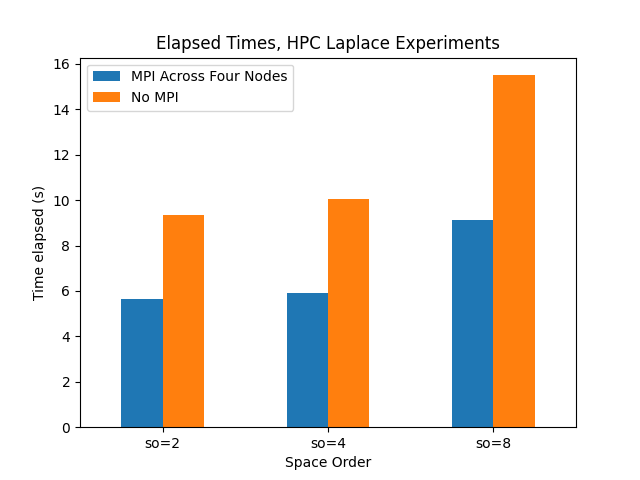
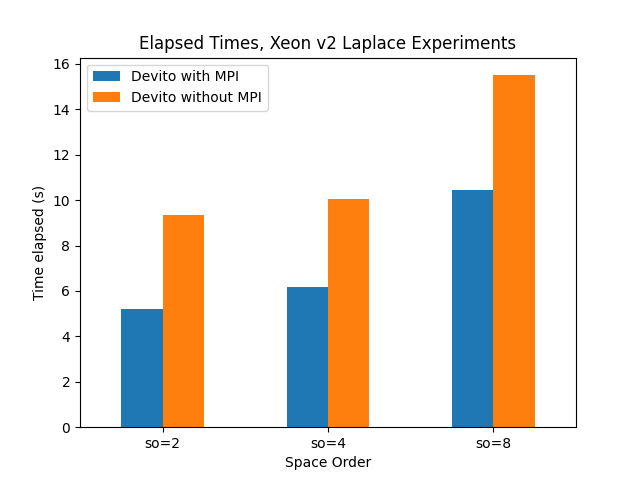
Implement wavefront tiling without MPI for wave stencil

diff --git a/results/postprocessing.py b/results/postprocessing.py
@@ -1,0 +1,105 @@
+from matplotlib import cm
+from matplotlib.colors import Normalize
+import matplotlib.pyplot as plt
+import matplotlib.patches as mpatches
+import pandas as pd
+import numpy as np
+import seaborn as sns
+
+results_folder = "data/"
+graphs_folder = "graphs/"
+
+space_orders = [2,4,8]
+time_tile_sizes = [4,8,16,32]
+
+def CPU_name(architecture):
+    if architecture == "yam":
+        return "Xeon v3"
+    if architecture == "hpc":
+        return "Xeon v2"
+    raise Exception("Typo in: " + str(architecture))
+
+def stencil_name(stencil):
+    if stencil == "laplace":
+        return "Laplace"
+    if stencil == "wave":
+        return "Wave"
+    raise Exception("Typo in: " + str(stencil))       
+
+def get_architecture_mpi_results(architecture, stencil):
+    architecture_folder = results_folder + architecture
+    #overlapped_csv = pd.read_csv(architecture_folder + "/results_overlapped_laplace_mpi.csv")
+    standard_csv = pd.read_csv(architecture_folder + "/" + str(stencil) + "_standard_mpi.csv")
+
+    # Average across repeats
+    #overlapped_csv = overlapped_csv.groupby(['num_ranks', 'space_order', 'time_tile_size','wf_x_width','wf_y_width', 'time', 'x_size', 'y_size', 'z_size']).mean().reset_index().drop(columns=['repeat_num'])
+    standard_csv = standard_csv.groupby(['num_ranks', 'space_order', 'time', 'x_size', 'y_size', 'z_size']).mean().reset_index().drop(columns=['repeat_num'])
+
+    #overlapped_csv['experiment_name'] = overlapped_csv.apply(lambda x: "t=" + str(int(x['time'])) + ",d=(" + str(int(x['x_size'])) + "," + str(int(x['y_size'])) + "," + str(int(x['z_size'])) + ")", axis=1)
+    standard_csv['experiment_name'] = standard_csv.apply(lambda x: "t=" + str(int(x['time'])) + ",d=(" + str(int(x['x_size'])) + "," + str(int(x['y_size'])) + "," + str(int(x['z_size'])) + ")", axis=1)
+
+    #overlapped_csv['computation_time'] = overlapped_csv['elapsed_time'] - overlapped_csv['haloupdate0']
+    standard_csv['computation_time'] = standard_csv['elapsed_time'] - standard_csv['haloupdate0']
+    #return overlapped_csv, standard_csv
+    return standard_csv
+
+def get_architecture_openmp_results(architecture, stencil):
+    architecture_folder = results_folder + architecture
+    wavefront_csv = pd.read_csv(architecture_folder + "/" + str(stencil) + "_wavefront_openmp.csv")
+    standard_csv = pd.read_csv(architecture_folder + "/" + str(stencil) + "_standard_openmp.csv")
+
+    # Average across repeats
+    wavefront_csv = wavefront_csv.groupby(['space_order', 'time_tile_size','wf_x_width','wf_y_width', 'time', 'x_size', 'y_size', 'z_size']).mean().reset_index().drop(columns=['repeat_num'])
+    standard_csv = standard_csv.groupby(['space_order', 'time', 'x_size', 'y_size', 'z_size']).mean().reset_index().drop(columns=['repeat_num'])
+
+    wavefront_csv['experiment_name'] = wavefront_csv.apply(lambda x: "t=" + str(int(x['time'])) + ",d=(" + str(int(x['x_size'])) + "," + str(int(x['y_size'])) + "," + str(int(x['z_size'])) + ")", axis=1)
+    standard_csv['experiment_name'] = standard_csv.apply(lambda x: "t=" + str(int(x['time'])) + ",d=(" + str(int(x['x_size'])) + "," + str(int(x['y_size'])) + "," + str(int(x['z_size'])) + ")", axis=1)
+
+    return wavefront_csv, standard_csv     
+
+def plot_time_bars_openmp(architecture, stencil):
+    wavefront_csv, standard_csv = get_architecture_openmp_results(architecture, stencil)
+    architecture_folder = graphs_folder + architecture
+    
+    def get_result_df(column_name):
+        results = []
+        for so in space_orders:
+            result = ["so=" + str(so)]
+            wavefront_csv_so = wavefront_csv.loc[wavefront_csv['space_order'] == so]
+            standard_csv_so = standard_csv.loc[standard_csv['space_order'] == so]
+            result.append(wavefront_csv_so[column_name].min())
+            result.append(standard_csv_so[column_name].min())
+            results.append(result)
+        results = pd.DataFrame(results)
+        results.columns = ['Space Order', 'Wavefront Tiling', 'Standard Devito Code']
+        return results
+
+    results = get_result_df("elapsed_time")
+    print(results)
+    results.plot(x='Space Order', kind='bar', rot=0, ylabel="Time elapsed (s)",title="Elapsed Times, " + CPU_name(architecture) + " " + stencil_name(stencil) + " Experiments")
+    plt.savefig(architecture_folder + "/" + stencil + "_elapsed_times_wavefront")
+
+def plot_time_bars_MPI_vs_nonMPI(architecture, stencil):
+    _, standard_csv = get_architecture_openmp_results(architecture, stencil)
+    standard_mpi_csv = get_architecture_mpi_results(architecture, stencil)
+    architecture_folder = graphs_folder + architecture
+    
+    def get_result_df(column_name):
+        results = []
+        for so in space_orders:
+            result = ["so=" + str(so)]
+            standard_mpi_csv_so = standard_mpi_csv.loc[(standard_mpi_csv['space_order'] == so)]
+            standard_csv_so = standard_csv.loc[(standard_csv['space_order'] == so)]
+            result.append(standard_mpi_csv_so[column_name].min())
+            result.append(standard_csv_so[column_name].min())
+            results.append(result)
+        results = pd.DataFrame(results)
+        results.columns = ['Space Order', 'Devito with MPI', 'Devito without MPI']
+        return results
+
+    results = get_result_df("elapsed_time")
+    results.plot(x='Space Order', kind='bar', rot=0, ylabel="Time elapsed (s)",title="Elapsed Times, " + CPU_name(architecture) + " " + stencil_name(stencil) + " Experiments")
+    plt.savefig(architecture_folder + "/" + stencil + "_mpi_vs_no_mpi")
+
+plot_time_bars_MPI_vs_nonMPI("yam", "laplace")
+plot_time_bars_openmp("yam", "laplace")

diff --git a/wave_implementation/wave_8so.c b/wave_implementation/wave_8so.c
@@ -28,22 +28,23 @@ struct profiler
 } ;
 
 
-int Kernel(struct dataobj *restrict u_vec, const float dt, const float h_x, const float h_y, const float h_z, const int time_M, const int time_m, const int x0_blk0_size, const int x_M, const int x_m, const int y0_blk0_size, const int y_M, const int y_m, const int z_M, const int z_m, const int nthreads, struct profiler * timers)
+int Kernel(struct dataobj *restrict damp_vec, struct dataobj *restrict u_vec, struct dataobj *restrict vp_vec, const float dt, const int time_M, const int time_m, const int x0_blk0_size, const int x_M, const int x_m, const int y0_blk0_size, const int y_M, const int y_m, const int z_M, const int z_m, const int nthreads, struct profiler * timers)
 {
+  float (*restrict damp)[damp_vec->size[1]][damp_vec->size[2]] __attribute__ ((aligned (64))) = (float (*)[damp_vec->size[1]][damp_vec->size[2]]) damp_vec->data;
   float (*restrict u)[u_vec->size[1]][u_vec->size[2]][u_vec->size[3]] __attribute__ ((aligned (64))) = (float (*)[u_vec->size[1]][u_vec->size[2]][u_vec->size[3]]) u_vec->data;
+  float (*restrict vp)[vp_vec->size[1]][vp_vec->size[2]] __attribute__ ((aligned (64))) = (float (*)[vp_vec->size[1]][vp_vec->size[2]]) vp_vec->data;
 
   /* Flush denormal numbers to zero in hardware */
   _MM_SET_DENORMALS_ZERO_MODE(_MM_DENORMALS_ZERO_ON);
   _MM_SET_FLUSH_ZERO_MODE(_MM_FLUSH_ZERO_ON);
 
-  float r0 = 1.0F/(h_x*h_x);
-  float r1 = 1.0F/(h_y*h_y);
-  float r2 = 1.0F/(h_z*h_z);
-  float r3 = 1.0F/dt;
+  float r0 = 1.0F/(dt*dt);
+  float r1 = 1.0F/dt;
+
   int wf_height = atoi(getenv("WF_HEIGHT"));
   int wf_x_width = atoi(getenv("WF_X_WIDTH"));
   int wf_y_width = atoi(getenv("WF_Y_WIDTH"));
-  int angle = 1;
+  int angle = 4;
 
   START_TIMER(section0)
   for (int wf_time_base = time_m; wf_time_base <= time_M; wf_time_base += wf_height)
@@ -53,7 +54,7 @@ int Kernel(struct dataobj *restrict u_vec, const float dt, const float h_x, cons
       for (int wf_y_base = y_m; wf_y_base <= y_M + angle * (wf_height - 1); wf_y_base += wf_y_width) 
       {
         int wf_offset = 0;
-        for (int time = wf_time_base, t0 = (time)%(2), t1 = (time + 1)%(2); time <= MIN(time_M, wf_time_base + wf_height - 1); time += 1, t0 = (time)%(2), t1 = (time + 1)%(2))
+        for (int time = wf_time_base, t0 = (time)%(3), t1 = (time + 2)%(3), t2 = (time + 1)%(3); time <= MIN(time_M, wf_time_base + wf_height - 1); time += 1, t0 = (time)%(3), t1 = (time + 2)%(3), t2 = (time + 1)%(3))
         {
           #pragma omp parallel num_threads(nthreads)
           {
@@ -66,10 +67,11 @@ int Kernel(struct dataobj *restrict u_vec, const float dt, const float h_x, cons
                 {
                   for (int y = y0_blk0; y <= MIN(MIN(y_M, wf_y_base + wf_y_width - wf_offset - 1), y0_blk0 + y0_blk0_size - 1); y += 1)
                   {
-                    #pragma omp simd aligned(u:32)
+                    #pragma omp simd aligned(damp,u,vp:32)  
                     for (int z = z_m; z <= z_M; z += 1)
                     {
-                      u[t1][x + 2][y + 2][z + 2] = dt*(-r0*u[t0][x + 2][y + 2][z + 2] - r1*u[t0][x + 2][y + 2][z + 2] - r2*u[t0][x + 2][y + 2][z + 2] + r3*u[t0][x + 2][y + 2][z + 2] + 5.0e-1F*(r0*u[t0][x + 1][y + 2][z + 2] + r0*u[t0][x + 3][y + 2][z + 2] + r1*u[t0][x + 2][y + 1][z + 2] + r1*u[t0][x + 2][y + 3][z + 2] + r2*u[t0][x + 2][y + 2][z + 1] + r2*u[t0][x + 2][y + 2][z + 3]) + 1.0e-1F);
+                      float r2 = 1.0F/(vp[x + 8][y + 8][z + 8]*vp[x + 8][y + 8][z + 8]);
+                      u[t2][x + 8][y + 8][z + 8] = (r1*damp[x + 8][y + 8][z + 8]*u[t0][x + 8][y + 8][z + 8] + r2*(-r0*(-2.0F*u[t0][x + 8][y + 8][z + 8]) - r0*u[t1][x + 8][y + 8][z + 8]) + 1.78571425e-5F*(-u[t0][x + 4][y + 8][z + 8] - u[t0][x + 8][y + 4][z + 8] - u[t0][x + 8][y + 8][z + 4] - u[t0][x + 8][y + 8][z + 12] - u[t0][x + 8][y + 12][z + 8] - u[t0][x + 12][y + 8][z + 8]) + 2.53968248e-4F*(u[t0][x + 5][y + 8][z + 8] + u[t0][x + 8][y + 5][z + 8] + u[t0][x + 8][y + 8][z + 5] + u[t0][x + 8][y + 8][z + 11] + u[t0][x + 8][y + 11][z + 8] + u[t0][x + 11][y + 8][z + 8]) + 1.99999996e-3F*(-u[t0][x + 6][y + 8][z + 8] - u[t0][x + 8][y + 6][z + 8] - u[t0][x + 8][y + 8][z + 6] - u[t0][x + 8][y + 8][z + 10] - u[t0][x + 8][y + 10][z + 8] - u[t0][x + 10][y + 8][z + 8]) + 1.59999996e-2F*(u[t0][x + 7][y + 8][z + 8] + u[t0][x + 8][y + 7][z + 8] + u[t0][x + 8][y + 8][z + 7] + u[t0][x + 8][y + 8][z + 9] + u[t0][x + 8][y + 9][z + 8] + u[t0][x + 9][y + 8][z + 8]) - 8.54166647e-2F*u[t0][x + 8][y + 8][z + 8])/(r0*r2 + r1*damp[x + 8][y + 8][z + 8]);
 		                }
                   } 
                 }

diff --git a/wave_implementation/wave_4so.c b/wave_implementation/wave_4so.c
@@ -28,22 +28,23 @@ struct profiler
 } ;
 
 
-int Kernel(struct dataobj *restrict u_vec, const float dt, const float h_x, const float h_y, const float h_z, const int time_M, const int time_m, const int x0_blk0_size, const int x_M, const int x_m, const int y0_blk0_size, const int y_M, const int y_m, const int z_M, const int z_m, const int nthreads, struct profiler * timers)
+int Kernel(struct dataobj *restrict damp_vec, struct dataobj *restrict u_vec, struct dataobj *restrict vp_vec, const float dt, const int time_M, const int time_m, const int x0_blk0_size, const int x_M, const int x_m, const int y0_blk0_size, const int y_M, const int y_m, const int z_M, const int z_m, const int nthreads, struct profiler * timers)
 {
+  float (*restrict damp)[damp_vec->size[1]][damp_vec->size[2]] __attribute__ ((aligned (64))) = (float (*)[damp_vec->size[1]][damp_vec->size[2]]) damp_vec->data;
   float (*restrict u)[u_vec->size[1]][u_vec->size[2]][u_vec->size[3]] __attribute__ ((aligned (64))) = (float (*)[u_vec->size[1]][u_vec->size[2]][u_vec->size[3]]) u_vec->data;
+  float (*restrict vp)[vp_vec->size[1]][vp_vec->size[2]] __attribute__ ((aligned (64))) = (float (*)[vp_vec->size[1]][vp_vec->size[2]]) vp_vec->data;
 
   /* Flush denormal numbers to zero in hardware */
   _MM_SET_DENORMALS_ZERO_MODE(_MM_DENORMALS_ZERO_ON);
   _MM_SET_FLUSH_ZERO_MODE(_MM_FLUSH_ZERO_ON);
 
-  float r0 = 1.0F/(h_x*h_x);
-  float r1 = 1.0F/(h_y*h_y);
-  float r2 = 1.0F/(h_z*h_z);
-  float r3 = 1.0F/dt;
+  float r0 = 1.0F/(dt*dt);
+  float r1 = 1.0F/dt;
+
   int wf_height = atoi(getenv("WF_HEIGHT"));
   int wf_x_width = atoi(getenv("WF_X_WIDTH"));
   int wf_y_width = atoi(getenv("WF_Y_WIDTH"));
-  int angle = 1;
+  int angle = 2;
 
   START_TIMER(section0)
   for (int wf_time_base = time_m; wf_time_base <= time_M; wf_time_base += wf_height)
@@ -53,7 +54,7 @@ int Kernel(struct dataobj *restrict u_vec, const float dt, const float h_x, cons
       for (int wf_y_base = y_m; wf_y_base <= y_M + angle * (wf_height - 1); wf_y_base += wf_y_width) 
       {
         int wf_offset = 0;
-        for (int time = wf_time_base, t0 = (time)%(2), t1 = (time + 1)%(2); time <= MIN(time_M, wf_time_base + wf_height - 1); time += 1, t0 = (time)%(2), t1 = (time + 1)%(2))
+        for (int time = wf_time_base, t0 = (time)%(3), t1 = (time + 2)%(3), t2 = (time + 1)%(3); time <= MIN(time_M, wf_time_base + wf_height - 1); time += 1, t0 = (time)%(3), t1 = (time + 2)%(3), t2 = (time + 1)%(3))
         {
           #pragma omp parallel num_threads(nthreads)
           {
@@ -66,10 +67,11 @@ int Kernel(struct dataobj *restrict u_vec, const float dt, const float h_x, cons
                 {
                   for (int y = y0_blk0; y <= MIN(MIN(y_M, wf_y_base + wf_y_width - wf_offset - 1), y0_blk0 + y0_blk0_size - 1); y += 1)
                   {
-                    #pragma omp simd aligned(u:32)
+                    #pragma omp simd aligned(damp,u,vp:32)  
                     for (int z = z_m; z <= z_M; z += 1)
                     {
-                      u[t1][x + 2][y + 2][z + 2] = dt*(-r0*u[t0][x + 2][y + 2][z + 2] - r1*u[t0][x + 2][y + 2][z + 2] - r2*u[t0][x + 2][y + 2][z + 2] + r3*u[t0][x + 2][y + 2][z + 2] + 5.0e-1F*(r0*u[t0][x + 1][y + 2][z + 2] + r0*u[t0][x + 3][y + 2][z + 2] + r1*u[t0][x + 2][y + 1][z + 2] + r1*u[t0][x + 2][y + 3][z + 2] + r2*u[t0][x + 2][y + 2][z + 1] + r2*u[t0][x + 2][y + 2][z + 3]) + 1.0e-1F);
+                      float r2 = 1.0F/(vp[x + 4][y + 4][z + 4]*vp[x + 4][y + 4][z + 4]);
+                      u[t2][x + 4][y + 4][z + 4] = (r1*damp[x + 4][y + 4][z + 4]*u[t0][x + 4][y + 4][z + 4] + r2*(-r0*(-2.0F*u[t0][x + 4][y + 4][z + 4]) - r0*u[t1][x + 4][y + 4][z + 4]) + 8.33333315e-4F*(-u[t0][x + 2][y + 4][z + 4] - u[t0][x + 4][y + 2][z + 4] - u[t0][x + 4][y + 4][z + 2] - u[t0][x + 4][y + 4][z + 6] - u[t0][x + 4][y + 6][z + 4] - u[t0][x + 6][y + 4][z + 4]) + 1.3333333e-2F*(u[t0][x + 3][y + 4][z + 4] + u[t0][x + 4][y + 3][z + 4] + u[t0][x + 4][y + 4][z + 3] + u[t0][x + 4][y + 4][z + 5] + u[t0][x + 4][y + 5][z + 4] + u[t0][x + 5][y + 4][z + 4]) - 7.49999983e-2F*u[t0][x + 4][y + 4][z + 4])/(r0*r2 + r1*damp[x + 4][y + 4][z + 4]);
 		                }
                   } 
                 }

diff --git a/wave_implementation/wave_2so.c b/wave_implementation/wave_2so.c
@@ -28,18 +28,19 @@ struct profiler
 } ;
 
 
-int Kernel(struct dataobj *restrict u_vec, const float dt, const float h_x, const float h_y, const float h_z, const int time_M, const int time_m, const int x0_blk0_size, const int x_M, const int x_m, const int y0_blk0_size, const int y_M, const int y_m, const int z_M, const int z_m, const int nthreads, struct profiler * timers)
+int Kernel(struct dataobj *restrict damp_vec, struct dataobj *restrict u_vec, struct dataobj *restrict vp_vec, const float dt, const int time_M, const int time_m, const int x0_blk0_size, const int x_M, const int x_m, const int y0_blk0_size, const int y_M, const int y_m, const int z_M, const int z_m, const int nthreads, struct profiler * timers)
 {
+  float (*restrict damp)[damp_vec->size[1]][damp_vec->size[2]] __attribute__ ((aligned (64))) = (float (*)[damp_vec->size[1]][damp_vec->size[2]]) damp_vec->data;
   float (*restrict u)[u_vec->size[1]][u_vec->size[2]][u_vec->size[3]] __attribute__ ((aligned (64))) = (float (*)[u_vec->size[1]][u_vec->size[2]][u_vec->size[3]]) u_vec->data;
+  float (*restrict vp)[vp_vec->size[1]][vp_vec->size[2]] __attribute__ ((aligned (64))) = (float (*)[vp_vec->size[1]][vp_vec->size[2]]) vp_vec->data;
 
   /* Flush denormal numbers to zero in hardware */
   _MM_SET_DENORMALS_ZERO_MODE(_MM_DENORMALS_ZERO_ON);
   _MM_SET_FLUSH_ZERO_MODE(_MM_FLUSH_ZERO_ON);
 
-  float r0 = 1.0F/(h_x*h_x);
-  float r1 = 1.0F/(h_y*h_y);
-  float r2 = 1.0F/(h_z*h_z);
-  float r3 = 1.0F/dt;
+  float r0 = 1.0F/(dt*dt);
+  float r1 = 1.0F/dt;
+
   int wf_height = atoi(getenv("WF_HEIGHT"));
   int wf_x_width = atoi(getenv("WF_X_WIDTH"));
   int wf_y_width = atoi(getenv("WF_Y_WIDTH"));
@@ -53,7 +54,7 @@ int Kernel(struct dataobj *restrict u_vec, const float dt, const float h_x, cons
       for (int wf_y_base = y_m; wf_y_base <= y_M + angle * (wf_height - 1); wf_y_base += wf_y_width) 
       {
         int wf_offset = 0;
-        for (int time = wf_time_base, t0 = (time)%(2), t1 = (time + 1)%(2); time <= MIN(time_M, wf_time_base + wf_height - 1); time += 1, t0 = (time)%(2), t1 = (time + 1)%(2))
+        for (int time = wf_time_base, t0 = (time)%(3), t1 = (time + 2)%(3), t2 = (time + 1)%(3); time <= MIN(time_M, wf_time_base + wf_height - 1); time += 1, t0 = (time)%(3), t1 = (time + 2)%(3), t2 = (time + 1)%(3))
         {
           #pragma omp parallel num_threads(nthreads)
           {
@@ -66,10 +67,11 @@ int Kernel(struct dataobj *restrict u_vec, const float dt, const float h_x, cons
                 {
                   for (int y = y0_blk0; y <= MIN(MIN(y_M, wf_y_base + wf_y_width - wf_offset - 1), y0_blk0 + y0_blk0_size - 1); y += 1)
                   {
-                    #pragma omp simd aligned(u:32)
+                    #pragma omp simd aligned(damp,u,vp:32)  
                     for (int z = z_m; z <= z_M; z += 1)
                     {
-                      u[t1][x + 2][y + 2][z + 2] = dt*(-r0*u[t0][x + 2][y + 2][z + 2] - r1*u[t0][x + 2][y + 2][z + 2] - r2*u[t0][x + 2][y + 2][z + 2] + r3*u[t0][x + 2][y + 2][z + 2] + 5.0e-1F*(r0*u[t0][x + 1][y + 2][z + 2] + r0*u[t0][x + 3][y + 2][z + 2] + r1*u[t0][x + 2][y + 1][z + 2] + r1*u[t0][x + 2][y + 3][z + 2] + r2*u[t0][x + 2][y + 2][z + 1] + r2*u[t0][x + 2][y + 2][z + 3]) + 1.0e-1F);
+                      float r2 = 1.0F/(vp[x + 2][y + 2][z + 2]*vp[x + 2][y + 2][z + 2]);
+                      u[t2][x + 2][y + 2][z + 2] = (r1*damp[x + 2][y + 2][z + 2]*u[t0][x + 2][y + 2][z + 2] + r2*(-r0*(-2.0F*u[t0][x + 2][y + 2][z + 2]) - r0*u[t1][x + 2][y + 2][z + 2]) + 1.0e-2F*(u[t0][x + 1][y + 2][z + 2] + u[t0][x + 2][y + 1][z + 2] + u[t0][x + 2][y + 2][z + 1] + u[t0][x + 2][y + 2][z + 3] + u[t0][x + 2][y + 3][z + 2] + u[t0][x + 3][y + 2][z + 2]) - 5.99999987e-2F*u[t0][x + 2][y + 2][z + 2])/(r0*r2 + r1*damp[x + 2][y + 2][z + 2]);
 		                }
                   } 
                 }

diff --git a/results/old_results/draft_eval/postprocessing.py b/results/old_results/draft_eval/postprocessing.py
@@ -14,8 +14,8 @@ time_tile_sizes = [4,8,16,32]
 
 def get_architecture_mpi_results(architecture):
     architecture_folder = results_folder + architecture
-    overlapped_csv = pd.read_csv(architecture_folder + "/results_overlapped_mpi.csv")
-    standard_csv = pd.read_csv(architecture_folder + "/results_standard_mpi.csv")
+    overlapped_csv = pd.read_csv(architecture_folder + "/results_overlapped_laplace_mpi.csv")
+    standard_csv = pd.read_csv(architecture_folder + "/results_standard_laplace_mpi.csv")
 
     # Average across repeats
     overlapped_csv = overlapped_csv.groupby(['num_ranks', 'space_order', 'time_tile_size','wf_x_width','wf_y_width', 'time', 'x_size', 'y_size', 'z_size']).mean().reset_index().drop(columns=['repeat_num'])
@@ -24,9 +24,6 @@ def get_architecture_mpi_results(architecture):
     overlapped_csv['experiment_name'] = overlapped_csv.apply(lambda x: "t=" + str(int(x['time'])) + ",d=(" + str(int(x['x_size'])) + "," + str(int(x['y_size'])) + "," + str(int(x['z_size'])) + ")", axis=1)
     standard_csv['experiment_name'] = standard_csv.apply(lambda x: "t=" + str(int(x['time'])) + ",d=(" + str(int(x['x_size'])) + "," + str(int(x['y_size'])) + "," + str(int(x['z_size'])) + ")", axis=1)
     experiment_names = overlapped_csv['experiment_name'].unique()
-    last_experiment = experiment_names[-1]
-    experiment_names[-1] = experiment_names[-2]
-    experiment_names[-2] = last_experiment
 
     overlapped_csv['computation_time'] = overlapped_csv['elapsed_time'] - overlapped_csv['haloupdate0']
     standard_csv['computation_time'] = standard_csv['elapsed_time'] - standard_csv['haloupdate0']
@@ -131,11 +128,12 @@ def plot_time_bars_openmp(architecture):
             result.append(standard_csv_so[column_name].min())
             results.append(result)
         results = pd.DataFrame(results)
-        results.columns = ['Space Order', 'Wavefront OpenMP', 'Standard OpenMP']
+        results.columns = ['Space Order', 'Wavefront Tiling', 'Standard Devito Code']
         return results
 
     results = get_result_df("elapsed_time")
-    results.plot(x='Space Order', kind='bar', rot=0, ylabel="Time elapsed (s)",title="Elapsed Times, " +  architecture.upper() + " Laplace Experiments")
+    print(results)
+    results.plot(x='Space Order', kind='bar', rot=0, ylabel="Time elapsed (s)",title="Elapsed Times, Xeon v2 Laplace Experiments")
     plt.savefig(architecture_folder + "/elapsed_times_openmp")
 
     def get_result_tts_df(column_name):
@@ -174,11 +172,11 @@ def plot_time_bars_MPI_vs_nonMPI(architecture):
             result.append(standard_csv_so[column_name].min())
             results.append(result)
         results = pd.DataFrame(results)
-        results.columns = ['Space Order', 'MPI Across Four Nodes', 'No MPI']
+        results.columns = ['Space Order', 'Devito with MPI', 'Devito without MPI']
         return results
 
     results = get_result_df("elapsed_time")
-    results.plot(x='Space Order', kind='bar', rot=0, ylabel="Time elapsed (s)",title="Elapsed Times, " +  architecture.upper() + " Laplace Experiments")
+    results.plot(x='Space Order', kind='bar', rot=0, ylabel="Time elapsed (s)",title="Elapsed Times, Xeon v2 Laplace Experiments")
     plt.savefig(architecture_folder + "/elapsed_times_mpi_vs_no_mpi")
 
 def plot_heatmaps_MPI(architecture):
@@ -200,9 +198,9 @@ def plot_heatmaps_MPI(architecture):
             fig = ax.get_figure()
             fig.savefig(heatmaps_folder + "/heatmap_" + str(tts) + "tts_" + str(so) + "so")
 
-plot_time_bars_MPI("yam")
-plot_time_bars_MPI("hpc")
+#plot_time_bars_MPI("yam")
+#plot_time_bars_MPI("hpc")
 plot_time_bars_openmp("hpc")
-plot_time_bars_MPI_vs_nonMPI("hpc")
-plot_heatmaps_MPI("hpc")
-plot_heatmaps_MPI("yam")
+#plot_time_bars_MPI_vs_nonMPI("hpc")
+#plot_heatmaps_MPI("hpc")
+#plot_heatmaps_MPI("yam")
